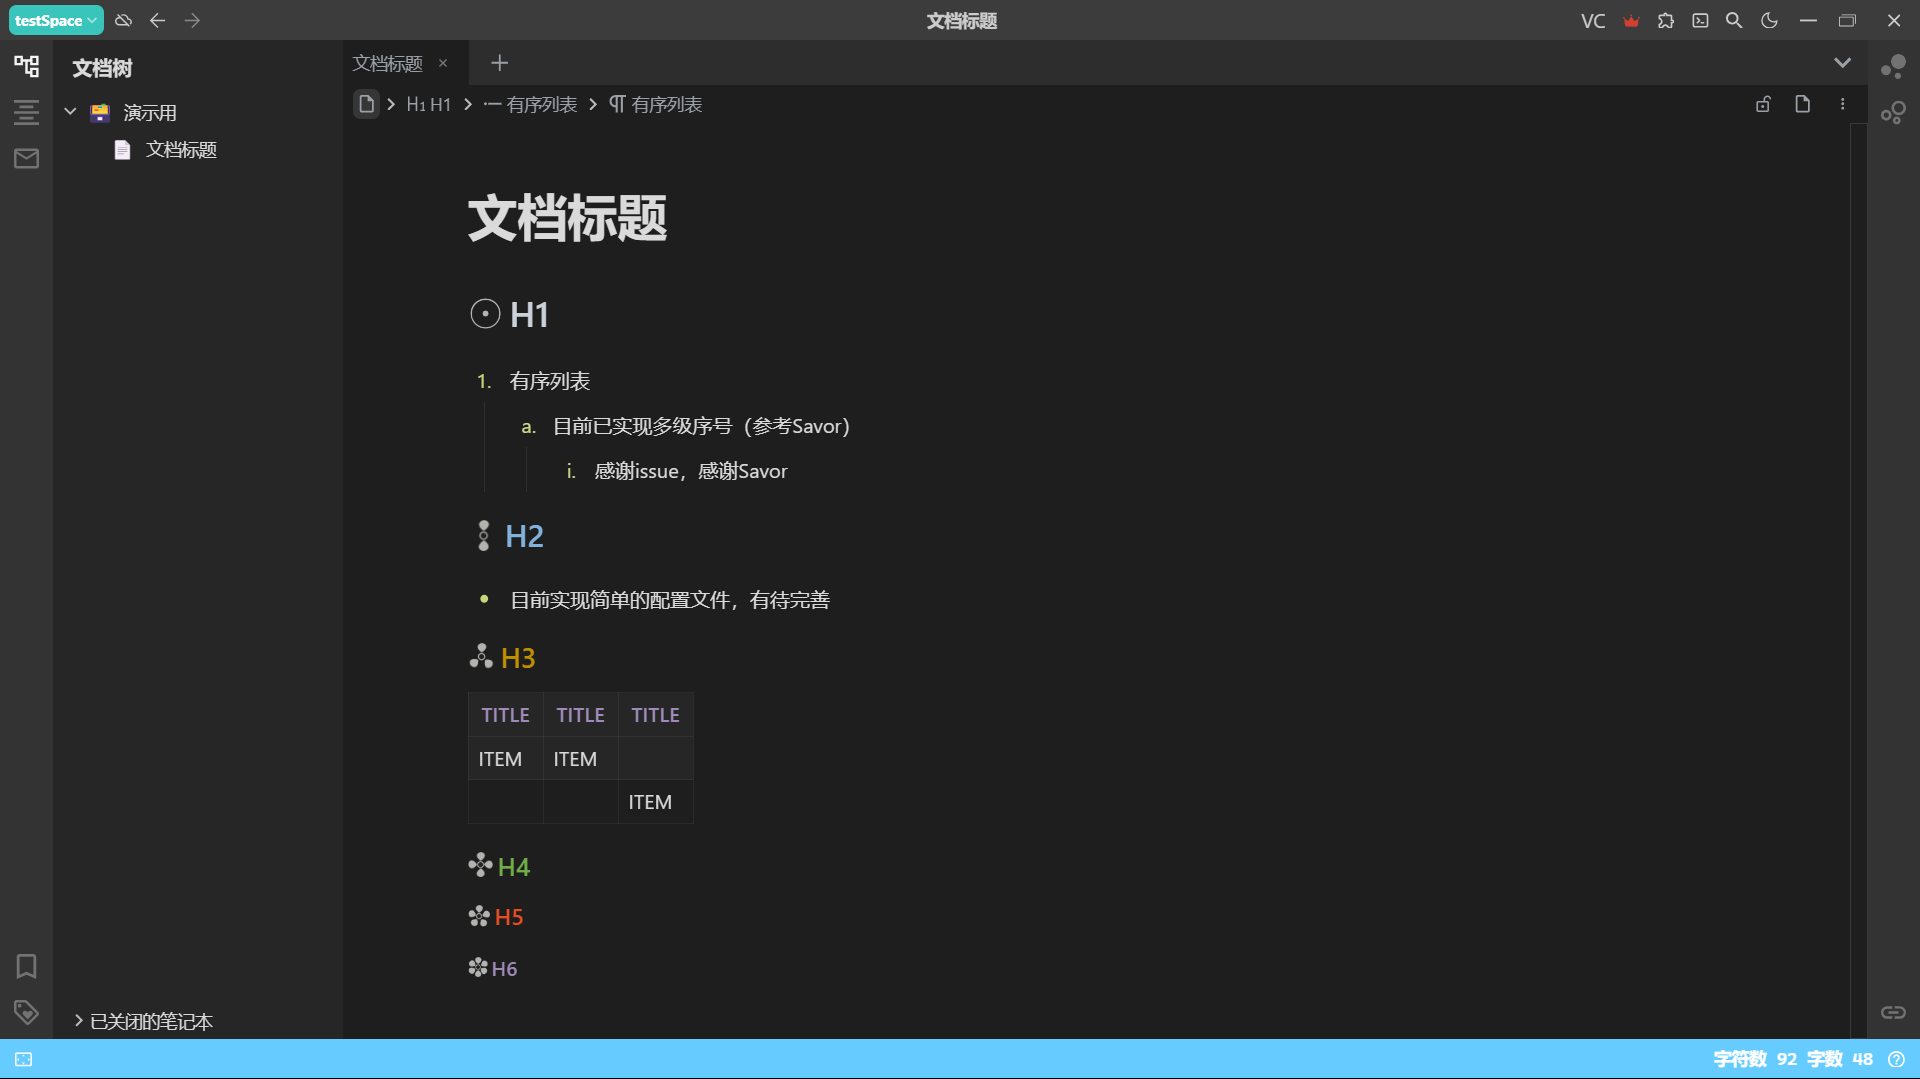
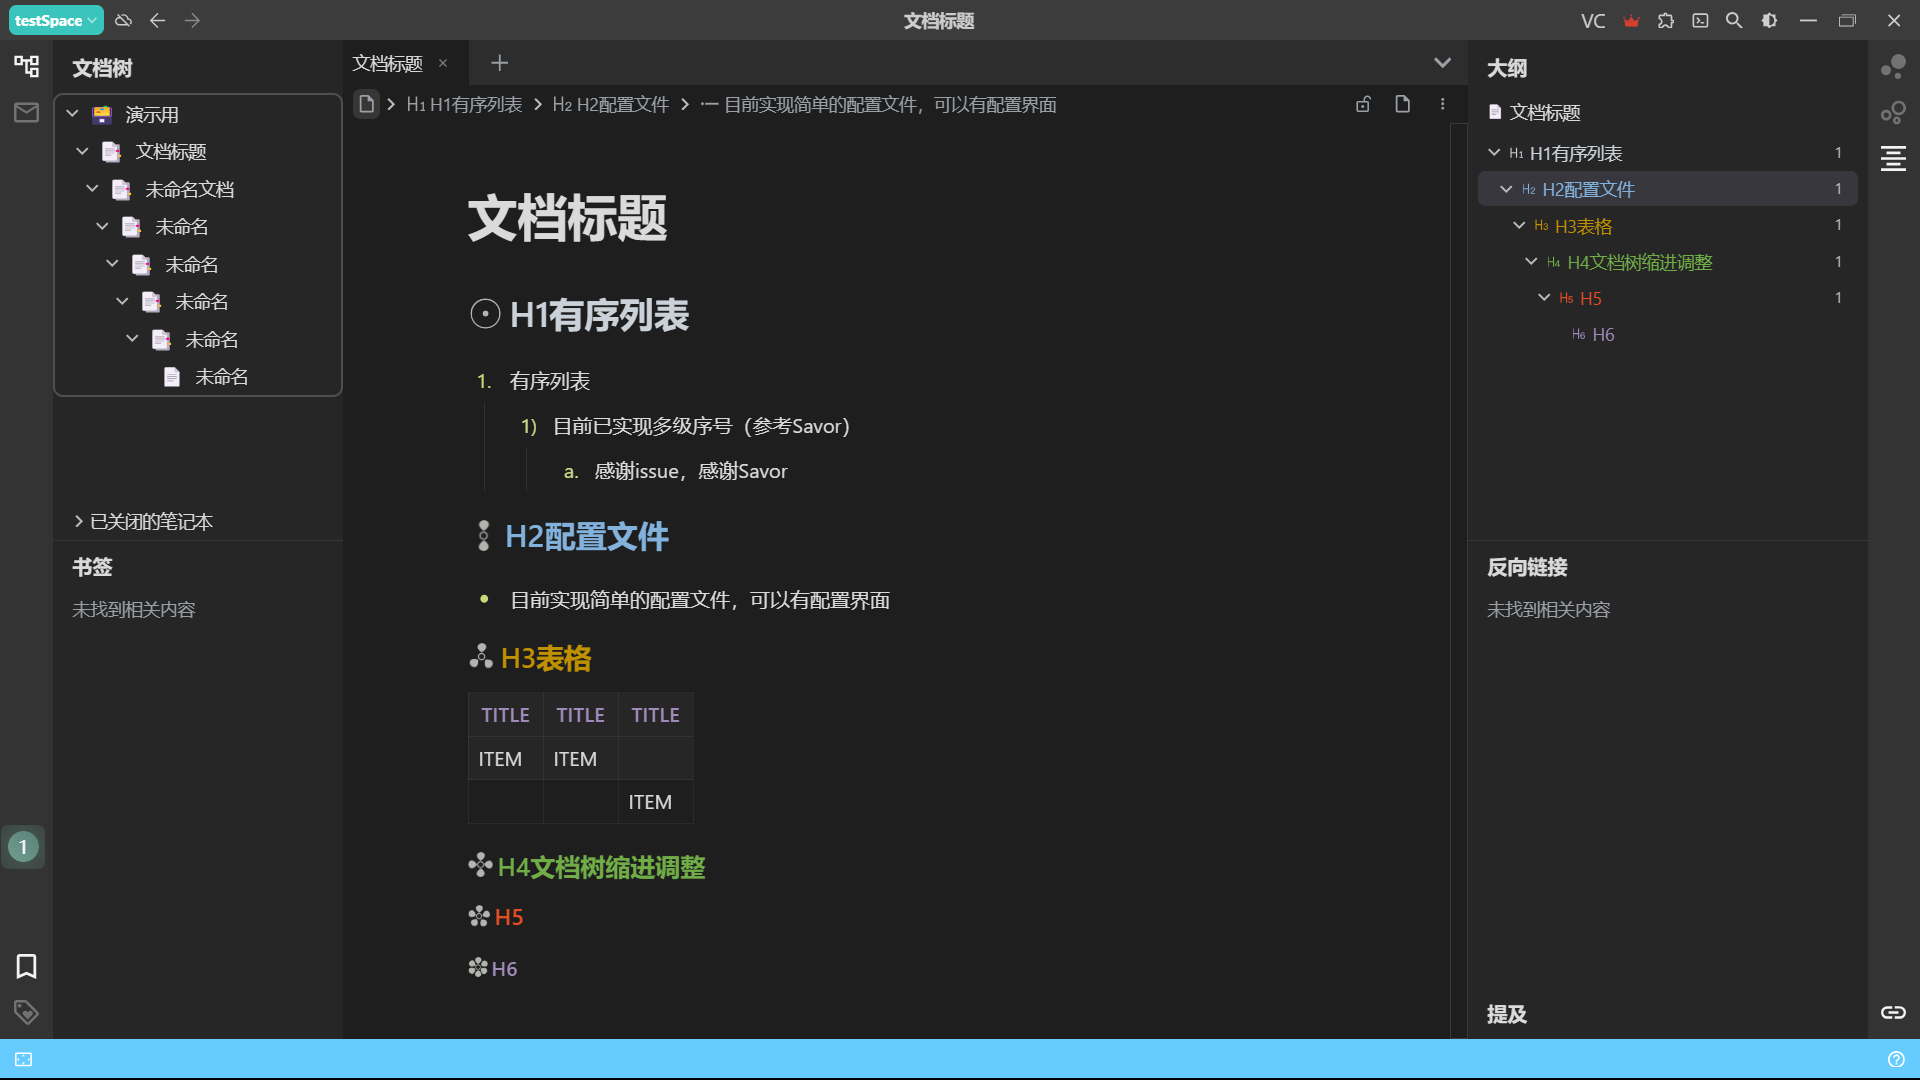
release 1.3.4

diff --git a/theme.js b/theme.js
@@ -29,17 +29,18 @@ window.destroyTheme = () => {
  */
 async function loadGlobalVars() {
     /**
-     * 默认配置文件
+     * ! 默认配置文件
      */
     globalThis.defaultConf = {
-        "version": 1,
+        "version": 2,
         "theme": {
             "codeBlock": true,
             "reference": true,
             "bazaar": true,
             "embeddedBlock": true,
             "title": true,
-            "database": true
+            "database": true,
+            "doctree": true
         },
         "plugins": {
             "shortcutPanel": true,
@@ -48,7 +49,7 @@ async function loadGlobalVars() {
     };
 
     /**
-     * 默认消息本地化
+     * ! 默认消息本地化
      */
     globalThis.localMessage = {
         "language": {
@@ -130,6 +131,10 @@ async function loadGlobalVars() {
         "scitem": {
             "zh_CN": '（插件）快捷键面板样式',
             "en_US": '(plugin) Shortcut key panel style'
+        },
+        "ftitem": {
+            "zh_CN": "文档树和大纲样式",
+            "en_US": 'Doc tree and Outline style'
         }
     };
 
@@ -299,6 +304,7 @@ async function showElementSettings(settings) {
         // console.log(settings["version"]);
         await _postMessage("ok", localMessage["confUpdate"][defLag]);
     }
+    // ! 从设置中获取启用的设置项
     // 代码块
     if (settings["theme"]["codeBlock"] == true) {
         lab.push("codeBlock");
@@ -327,6 +333,10 @@ async function showElementSettings(settings) {
     if (settings["theme"]["database"] == true) {
         lab.push("database");
     }
+    // 文档树和大纲
+    if (settings["theme"]["doctree"] == true) {
+        lab.push("doctree");
+    }
     return lab;
 }
 
@@ -339,6 +349,7 @@ async function showElementSettings(settings) {
 function addImports(table, labels) {
     table = table.sheet;
     var i = 0;
+    // ! 向css表中插入引用的语句
     labels.forEach(it => {
         if (it == 'codeBlock') {
             table.insertRule('@import url(sub/block/codeBlock.css);', 6 + i);
@@ -366,6 +377,10 @@ function addImports(table, labels) {
         }
         if (it == 'database') {
             table.insertRule('@import url(sub/block/database.css);', 6 + i);
+            i += 1;
+        }
+        if (it == 'doctree') {
+            table.insertRule('@import url(sub/app/filetree.css);', 6 + i);
             i += 1;
         }
     });
@@ -431,6 +446,20 @@ async function createSettingsWindow() {
 
         async function getSettingArrays(v) {
             let settings = [];
+            // ! 设置页添加设置选项
+            // 标题
+            if (v["theme"]["title"] == true) {
+                settings.push({ label: localMessage["tititem"][defLag], id: 'titleBlock', enable: true });
+            } else {
+                settings.push({ label: localMessage["tititem"][defLag], id: 'titleBlock', enable: false });
+            }
+            // 文档树和大纲
+            if (v["theme"]["doctree"] == true) {
+                settings.push({ label: localMessage["ftitem"][defLag], id: 'doctree', enable: true });
+            } else {
+                settings.push({ label: localMessage["ftitem"][defLag], id: 'doctree', enable: false });
+            }
+            // 代码块
             if (v["theme"]["codeBlock"] == true) {
                 settings.push({ label: localMessage["cbitem"][defLag], id: 'codeBlock', enable: true });
             } else {
@@ -453,12 +482,6 @@ async function createSettingsWindow() {
                 settings.push({ label: localMessage["emitem"][defLag], id: 'embeddedBlock', enable: true });
             } else {
                 settings.push({ label: localMessage["emitem"][defLag], id: 'embeddedBlock', enable: false });
-            }
-            // 标题
-            if (v["theme"]["title"] == true) {
-                settings.push({ label: localMessage["tititem"][defLag], id: 'titleBlock', enable: true });
-            } else {
-                settings.push({ label: localMessage["tititem"][defLag], id: 'titleBlock', enable: false });
             }
             // 数据库
             if (v["theme"]["database"] == true) {
@@ -510,6 +533,7 @@ async function createSettingsWindow() {
         Array.from(ckb).forEach(checkbox => {
             var id = checkbox.id;
             var ck = checkbox.checked;
+            // ! 保存设置到json
             if (id == "codeBlock") {
                 saveSt["theme"]["codeBlock"] = ck;
             } else if (id == "referenceBlock") {
@@ -526,6 +550,8 @@ async function createSettingsWindow() {
                 saveSt["plugins"]["shortcutPanel"] = ck;
             } else if (id == "database") {
                 saveSt["theme"]["database"] = ck;
+            } else if (id == "doctree") {
+                saveSt["theme"]["doctree"] = ck;
             }
         });
         // 修改配置文件版本

diff --git a/sub/app/filetree.css b/sub/app/filetree.css
@@ -1,0 +1,103 @@
+/* 文档树 */
+.sy__file div.fn__flex-1 {
+    overflow: auto;
+}
+
+.sy__file div.fn__flex-1:hover::-webkit-scrollbar-thumb {
+    background: var(--mk-filetree-scrollbar-thumb);
+    opacity: 1;
+}
+
+.sy__file div.fn__flex-1::-webkit-scrollbar-track-piece {
+    opacity: 0;
+}
+
+.sy__file div.fn__flex-1::-webkit-scrollbar-track {
+    background-color: rgba(0, 0, 0, 0);
+}
+
+.sy__file div.fn__flex-1::-webkit-scrollbar-thumb {
+    border-radius: 0;
+    background: rgba(0, 0, 0, 0);
+    box-shadow: none;
+}
+
+.sy__file div.fn__flex-1::-webkit-scrollbar-thumb:hover {
+    background: var(--mk-filetree-scrollbar-thumb--hover);
+}
+
+.sy__file div.fn__flex-1::-webkit-scrollbar-thumb:active {
+    background: var(--mk-filetree-scrollbar-thumb--active);
+}
+
+.sy__file .b3-list--background {
+    border-radius: 8px;
+    border: 2px solid var(--mk-filetree-scrollbar-thumb--hover);
+}
+
+.sy__file .b3-list--background .b3-list-item {
+    border-radius: unset;
+    padding: 1px 5px;
+    margin: unset;
+}
+
+/* 第1级缩进 */
+.sy__file ul.b3-list--background > ul > li.b3-list-item > span.b3-list-item__toggle {
+    padding-left: 12px !important;
+}
+
+/* 第2级缩进 */
+.sy__file ul.b3-list--background > ul > ul > li.b3-list-item > span.b3-list-item__toggle {
+    padding-left: 20px !important;
+}
+
+/* 第3级缩进 */
+.sy__file ul.b3-list--background > ul > ul > ul > li.b3-list-item > span.b3-list-item__toggle {
+    padding-left: 28px !important;
+}
+
+/* 第4级缩进 */
+.sy__file ul.b3-list--background > ul > ul > ul > ul > li.b3-list-item > span.b3-list-item__toggle {
+    padding-left: 36px !important;
+}
+
+/* 第5级缩进 */
+.sy__file ul.b3-list--background > ul > ul > ul > ul > ul > li.b3-list-item > span.b3-list-item__toggle {
+    padding-left: 44px !important;
+}
+
+/* 第6级缩进 */
+.sy__file ul.b3-list--background > ul > ul > ul > ul > ul > ul > li.b3-list-item > span.b3-list-item__toggle {
+    padding-left: 52px !important;
+}
+
+/* 第7级缩进 */
+.sy__file ul.b3-list--background > ul > ul > ul > ul > ul > ul > ul > li.b3-list-item > span.b3-list-item__toggle {
+    padding-left: 60px !important;
+}
+
+/* 大纲 */
+/* 2级标题缩进 */
+.sy__outline .fn__flex-1 .b3-list .b3-list-item[data-subtype="h2"] > .b3-list-item__toggle {
+    padding-left: 14px !important;
+}
+
+/* 3级标题缩进 */
+.sy__outline .fn__flex-1 .b3-list .b3-list-item[data-subtype="h3"] > .b3-list-item__toggle {
+    padding-left: 24px !important;
+}
+
+/* 4级标题缩进 */
+.sy__outline .fn__flex-1 .b3-list .b3-list-item[data-subtype="h4"] > .b3-list-item__toggle {
+    padding-left: 34px !important;
+}
+
+/* 5级标题缩进 */
+.sy__outline .fn__flex-1 .b3-list .b3-list-item[data-subtype="h5"] > .b3-list-item__toggle {
+    padding-left: 44px !important;
+}
+
+/* 6级标题缩进 */
+.sy__outline .fn__flex-1 .b3-list .b3-list-item[data-subtype="h6"] > .b3-list-item__toggle {
+    padding-left: 54px !important;
+}

diff --git a/theme.css b/theme.css
@@ -15,6 +15,8 @@
 @import url(sub/app/toolbarHead.css);
 /* 应用程序页面标签 */
 @import url(sub/app/tabBar.css);
+/* 文档树和大纲 */
+/* @import url(sub/app/filetree.css); */
 /* 标题标签h123456 */
 /* @import url(sub/block/title.css); */
 /* 列表样式 */
@@ -119,47 +121,6 @@
 
 .protyle-content::-webkit-scrollbar-thumb:active {
   background: var(--mk-protyle-content-scrollbar-thumb--active);
-}
-
-.sy__file div.fn__flex-1 {
-  overflow: auto;
-}
-
-.sy__file div.fn__flex-1:hover::-webkit-scrollbar-thumb {
-  background: var(--mk-filetree-scrollbar-thumb);
-  opacity: 1;
-}
-
-.sy__file div.fn__flex-1::-webkit-scrollbar-track-piece {
-  opacity: 0;
-}
-
-.sy__file div.fn__flex-1::-webkit-scrollbar-track {
-  background-color: rgba(0, 0, 0, 0);
-}
-
-.sy__file div.fn__flex-1::-webkit-scrollbar-thumb {
-  border-radius: 0;
-  background: rgba(0, 0, 0, 0);
-  box-shadow: none;
-}
-
-.sy__file div.fn__flex-1::-webkit-scrollbar-thumb:hover {
-  background: var(--mk-filetree-scrollbar-thumb--hover);
-}
-
-.sy__file div.fn__flex-1::-webkit-scrollbar-thumb:active {
-  background: var(--mk-filetree-scrollbar-thumb--active);
-}
-
-.sy__file .b3-list--background {
-  border-radius: unset;
-}
-
-.sy__file .b3-list--background .b3-list-item {
-  border-radius: unset;
-  padding: 1px 5px;
-  margin: unset;
 }
 
 .layout__resize--lr::after {

diff --git a/README.md b/README.md
@@ -17,24 +17,26 @@ Origin author: [TinkMingKing](https://github.com/TinkMingKing)
 - Table display style
 - Fit some plugins
 - Limit display height of embedded block(can close)
-- Configuration file
+- Multi-level serial number style
+- Configuration edit page
+- doc tree and outline indentation
 
 # Configure
 
 You can currently edit configuration files using the `VC` button on the title bar.
 
-Affected by the configuration loading method, updated configurations for new versions need to be manually enabled in the configuration panel. This way, previous configuration data will not be lost.
+Limited by the configuration loading method, updated configurations for new versions need to be manually enabled in the configuration panel. This way, previous configuration data will not be lost.
 
 # ChangeLog
 
 > Full changelog view [ChangeLog](https://github.com/lingfengyu-dreaming/siyuan-vscodelite-edit/blob/main/changelog.md)
 
+- V1.3.4
+  - Add document tree and outline indentation (may conflict with plugin)
 - V1.3.3
   - New localized adaptation
 - V1.3.2
   - Adjust list multi-level styles
-- V1.3.1
-  - Fixed an issue where switching color modes requires reloading
 
 # Plugin fitness
 

diff --git a/README_zh_CN.md b/README_zh_CN.md
@@ -17,24 +17,26 @@
 - 表格显示效果
 - 适配部分插件
 - 限制嵌入块显示高度（可手动关闭）
-- 配置文件
+- 多级序号样式
+- 配置编辑页面
+- 文档树和大纲缩进
 
 # 配置
 
 目前可以使用标题栏上的`VC`按钮编辑配置文件。
 
-受配置加载方式影响，新版本更新的配置需要在配置面板手动启用。这样不会丢失之前的配置数据。
+受配置加载方式限制，新版本更新的配置需要在配置面板手动启用。这样不会丢失之前的配置数据。
 
 # 更新日志
 
 > 完整更新日志查看[changelog](https://github.com/lingfengyu-dreaming/siyuan-vscodelite-edit/blob/main/changelog.md)
 
+- V1.3.4
+  - 新增文档树和大纲缩进（可能和插件冲突）
 - V1.3.3
   - 新增本地化适配
 - V1.3.2
   - 调整列表多层级样式
-- V1.3.1
-  - 修复切换颜色模式需要重新加载的问题
 
 # 插件适配
 

diff --git a/changelog.md b/changelog.md
@@ -1,4 +1,7 @@
 # ChangeLog
+- V1.3.4
+  - 新增文档树和大纲缩进（可能和插件冲突）
+  - Add document tree and outline indentation (may conflict with plugin)
 - V1.3.3
   - 新增本地化适配
   - New localized adaptation
